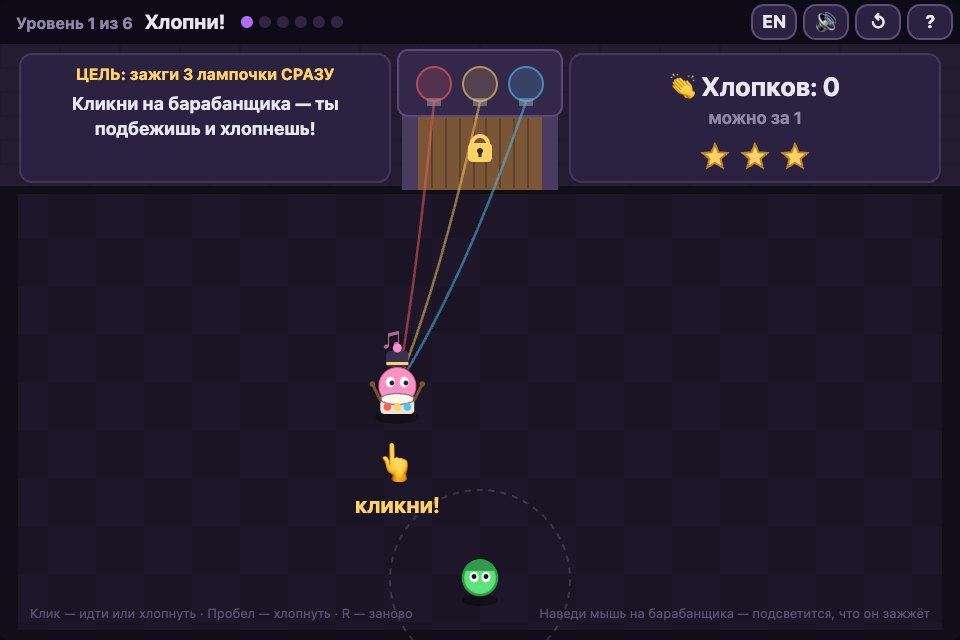
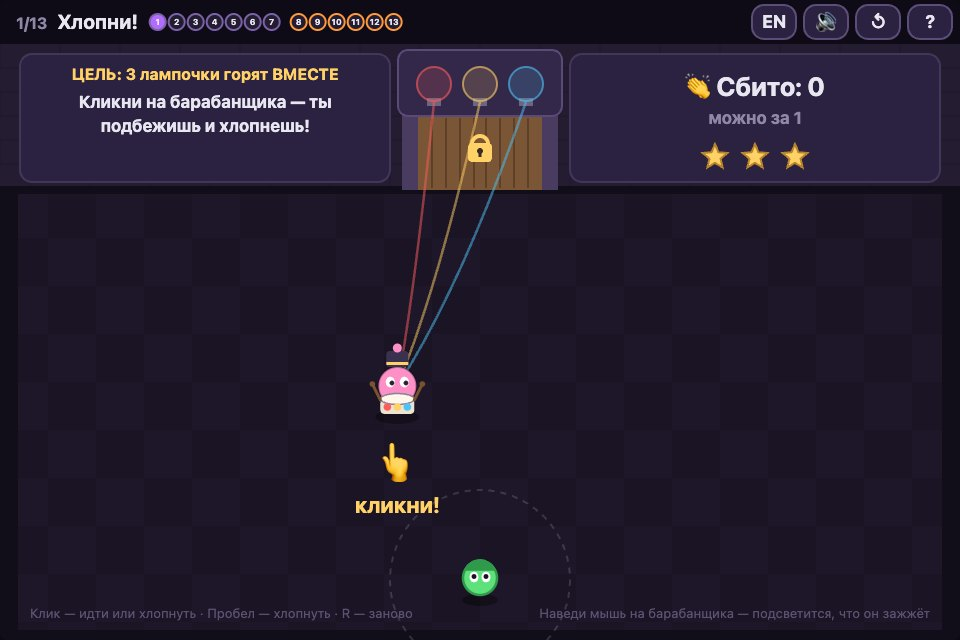
«Лейтмотив»: визреференс v2.1 (10 кадров: пауза, гаситель, ловушка, подсказка) + дашборд

Changed region(s): [[0.0625, 0.0938, 0.375, 0.2188], [0.0, 0.0, 0.4375, 0.0625], [0.6875, 0.0938, 0.875, 0.1562]]

diff --git a/mechanics/leitmotif/reference.html b/mechanics/leitmotif/reference.html
@@ -3,8 +3,8 @@
 <head>
 <meta charset="utf-8">
 <meta name="viewport" content="width=device-width, initial-scale=1">
-<title>Лейтмотив — визуальный референс v2</title>
-<meta name="description" content="Восемь кадров простой версии: хлопни по барабанщику, искра бежит по ниточкам, три лампочки сразу открывают дверь.">
+<title>Лейтмотив — визуальный референс v2.1</title>
+<meta name="description" content="Десять кадров: хлопни в паузу песенки, искра бежит по ниточкам, три лампочки вместе открывают дверь; головоломки части 2.">
 <style>
 :root{color-scheme:dark;--bg:#17131f;--card:#211a2e;--ink:#e8e6f0;--muted:#a79fba;--accent:#b26bff;--line:#352b47;
       --red:#ff5d5d;--yellow:#ffd166;--blue:#4fc3f7;--hero:#5ee07a}
@@ -41,16 +41,17 @@ a{color:var(--accent)}
 <body>
 <main>
 <header>
-  <p class="eyebrow">idea_generator · перебить × лейтмотив · визреференс v2</p>
+  <p class="eyebrow">idea_generator · перебить × лейтмотив · визреференс v2.1</p>
   <h1>Лейтмотив</h1>
-  <p class="lead">У каждого барабанщика своя песенка. Хлопни рядом с ним — он собьётся, и сбой побежит по его ниточкам
-    к лампочкам и к другим барабанщикам. Зажги все три лампочки <b>одновременно</b> — дверь откроется.</p>
-  <p class="sub">Вопрос прототипа: читают ли игроки ниточки и выбирают нужную пару хлопков — или хлопают по всем подряд?
-    Ответ видно по звёздам: решил минимумом хлопков — три звезды.</p>
+  <p class="lead">У каждого барабанщика своя песенка. Хлопни рядом с ним <b>в паузу</b> — он собьётся, и сбой побежит по его
+    ниточкам к лампочкам и к другим барабанщикам. Хлопок в удар тонет в шуме. Три лампочки должны погореть <b>вместе</b> —
+    тогда дверь откроется.</p>
+  <p class="sub">Вопрос прототипа: читают ли игроки ниточки и ритм — выбирают нужную пару, порядок и момент — или хлопают
+    по всем подряд? В части 1 звёзды за число сбитых, в части 2 (лимит) — за число попыток.</p>
   <div class="steps">
     <div class="step"><b>1</b>Кликни на барабанщика — подбежишь и хлопнешь</div>
-    <div class="step"><b>2</b>Он собьётся, искра побежит по ниточкам</div>
-    <div class="step"><b>3</b>Три лампочки горят сразу — дверь открыта</div>
+    <div class="step"><b>2</b>Хлопай в паузу песенки — он собьётся, искра побежит по ниточкам</div>
+    <div class="step"><b>3</b>Три лампочки горят вместе секунду — дверь открыта</div>
   </div>
 </header>
 
@@ -60,31 +61,37 @@ a{color:var(--accent)}
     <span>Герой сам подбежит и хлопнет. Пунктирный круг вокруг героя — докуда он дотягивается.</span></figcaption></figure>
   <figure><img src="frames/02_sparks.jpg" alt="Барабанщик сбился, по трём ниточкам бегут искры к лампочкам" loading="lazy">
     <figcaption><strong><span class="n">2</span>Хлоп! Он сбился с песенки</strong>
-    <span>Глаза-крестики и «?!». По всем его ниточкам побежали искры — каждая к лампочке своего цвета.</span></figcaption></figure>
-  <figure><img src="frames/03_open.jpg" alt="Три лампочки горят, дверь открыта, конфетти" loading="lazy">
-    <figcaption><strong><span class="n">3</span>Три горят сразу — дверь открыта</strong>
-    <span>Стрелка у героя показывает на дверь. Зайди в неё — уровень пройден.</span></figcaption></figure>
-  <figure><img src="frames/04_at_once.jpg" alt="Две лампочки горят с кольцами-таймерами, синяя ещё тёмная" loading="lazy">
-    <figcaption><strong><span class="n">4</span>Лампочка горит только 5 секунд</strong>
-    <span>Белое кольцо вокруг лампочки — сколько ей ещё гореть. Успей зажечь синюю, пока красная и жёлтая не погасли.</span></figcaption></figure>
-  <figure><img src="frames/05_domino.jpg" alt="Искра бежит по фиолетовой ниточке к барабанщику в клетке" loading="lazy">
-    <figcaption><strong><span class="n">5</span>Домино</strong>
-    <span>Фиолетовая ниточка со стрелкой ведёт к другому барабанщику. Искра собьёт и его — а он зажжёт свои лампочки.</span></figcaption></figure>
-  <figure><img src="frames/06_cage.jpg" alt="Подсказка: он в клетке, найди ниточку к нему" loading="lazy">
-    <figcaption><strong><span class="n">6</span>В клетке не достать</strong>
-    <span>Клик по клетке подсвечивает ниточки, которые к ней ведут: хлопать надо того, кто привязан снаружи.</span></figcaption></figure>
-  <figure><img src="frames/07_hover.jpg" alt="Наведение на барабанщика подсвечивает его цепочку и лампочки" loading="lazy">
-    <figcaption><strong><span class="n">7</span>Наведи — увидишь, что он зажжёт</strong>
-    <span>Подсвечивается вся цепочка: барабанщик → барабанщик → лампочка, вокруг нужных лампочек — пунктир. Выбирай пару.</span></figcaption></figure>
-  <figure><img src="frames/08_stars.jpg" alt="Экран «Ура! Уровень пройден» с тремя звёздами" loading="lazy">
-    <figcaption><strong><span class="n">8</span>Звёзды за хлопки</strong>
-    <span>Минимум хлопков — три звезды, на один больше — две, хлопал всех подряд — одна.</span></figcaption></figure>
+    <span>Глаза-крестики и «?!». По его ниточкам побежали искры — каждая к лампочке своего цвета.</span></figcaption></figure>
+  <figure><img src="frames/03_open.jpg" alt="Три лампочки горят, на замке заполняется белое кольцо" loading="lazy">
+    <figcaption><strong><span class="n">3</span>Три горят вместе — кольцо на замке</strong>
+    <span>Пока все три горят, кольцо заполняется; через секунду дверь откроется навсегда.</span></figcaption></figure>
+  <figure><img src="frames/04_drown.jpg" alt="Хлопок в момент удара: надпись ТУМ, у героя заложило уши" loading="lazy">
+    <figcaption><strong><span class="n">4</span>ТУМ! Хлопок утонул</strong>
+    <span>Полоска над барабанщиком — его песенка: оранжевый — удар, тёмный — пауза. Хлопнул в удар — не слышно, и на секунду закладывает уши.</span></figcaption></figure>
+  <figure><img src="frames/05_now.jpg" alt="Над барабанщиком зелёная клетка и надпись СЕЙЧАС" loading="lazy">
+    <figcaption><strong><span class="n">5</span>Пауза — СЕЙЧАС!</strong>
+    <span>Зелёная клетка — пауза. На втором уровне подсказка прямо пишет «СЕЙЧАС!», потом её убирают.</span></figcaption></figure>
+  <figure><img src="frames/06_domino.jpg" alt="Искра бежит по фиолетовой ниточке к барабанщику в клетке" loading="lazy">
+    <figcaption><strong><span class="n">6</span>Домино</strong>
+    <span>Фиолетовая ниточка со стрелкой ведёт к другому барабанщику — даже в клетку, куда герою не войти.</span></figcaption></figure>
+  <figure><img src="frames/07_dashed.jpg" alt="Пунктирная ниточка с крестиком к синей лампе, подсветка при наведении" loading="lazy">
+    <figcaption><strong><span class="n">7</span>Пунктир гасит</strong>
+    <span>Пунктир с крестиком гасит лампочку. Наведи мышь (или держи палец) — подсветится, что зажжётся, а что погаснет. Отсюда порядок хлопков.</span></figcaption></figure>
+  <figure><img src="frames/08_trap.jpg" alt="Ловушка: хаб зажигает все три, но его домино гасит жёлтую" loading="lazy">
+    <figcaption><strong><span class="n">8</span>Ловушка</strong>
+    <span>Этот зажигает все три… но через клетку гасит жёлтую. Крестик на лампе в подсветке это и показывает: жёлтую надо починить вторым хлопком.</span></figcaption></figure>
+  <figure><img src="frames/09_hint.jpg" alt="Экзамен с подсказкой: цифры 1, 2, 3 над барабанщиками" loading="lazy">
+    <figcaption><strong><span class="n">9</span>Часть 2: лимит и подсказка</strong>
+    <span>Сбить можно ограниченно (иконки барабанов справа). После двух неудач — подсказка: цифры показывают порядок.</span></figcaption></figure>
+  <figure><img src="frames/10_stars.jpg" alt="Экран «Ура! Уровень пройден» с тремя звёздами за первую попытку" loading="lazy">
+    <figcaption><strong><span class="n">10</span>Звёзды</strong>
+    <span>Часть 1 — за число сбитых против минимума, часть 2 — за попытки: с первой — три звезды.</span></figcaption></figure>
 </section>
 
 <h2>Что есть что</h2>
 <div class="legend">
   <div class="item"><svg width="40" height="40" viewBox="-20 -24 40 48" aria-hidden="true"><circle cx="0" cy="-4" r="15" fill="#ff8fc7"/><rect x="-9" y="-26" width="18" height="12" rx="3" fill="#3a3050"/><rect x="-13" y="7" width="26" height="12" rx="4" fill="#ece4d0"/><circle cx="-5" cy="13" r="3" fill="#ff5d5d"/><circle cx="5" cy="13" r="3" fill="#ffd166"/></svg>
-    Барабанщик. Ходит туда-сюда под свою песенку. Цветные точки на барабане — какие лампочки он зажигает сам.</div>
+    Барабанщик. Ходит туда-сюда, над головой — полоска песенки. Точки на барабане — что он зажигает сам, крестики — что гасит.</div>
   <div class="item"><svg width="40" height="40" viewBox="-20 -20 40 40" aria-hidden="true"><circle r="15" fill="#5ee07a" stroke="#2f9a4b" stroke-width="3"/><circle r="19" fill="none" stroke="#5ee07a" stroke-dasharray="4 4" opacity=".6"/></svg>
     Ты. Пунктир — докуда достаёшь хлопком.</div>
   <div class="item"><svg width="40" height="40" viewBox="0 0 40 40" aria-hidden="true"><path d="M4 34 Q20 40 36 6" stroke="#ff5d5d" stroke-width="3" fill="none"/></svg>
@@ -92,24 +99,31 @@ a{color:var(--accent)}
   <div class="item"><svg width="40" height="40" viewBox="0 0 40 40" aria-hidden="true"><path d="M4 30 Q20 36 36 10" stroke="#b26bff" stroke-width="3" fill="none"/><path d="M26 18 l8 -2 -4 8z" fill="#b26bff"/></svg>
     Фиолетовая ниточка со стрелкой — к другому барабанщику (домино).</div>
   <div class="item"><svg width="40" height="40" viewBox="-20 -20 40 40" aria-hidden="true"><circle r="11" fill="#ffd166"/><path d="M0 -16 A16 16 0 1 1 -15 5" stroke="#fff" stroke-width="3" fill="none"/></svg>
-    Лампочка горит 5 секунд, кольцо — таймер. Перед тем как погаснуть, мигает.</div>
+    Лампочка горит 5 секунд, кольцо — таймер. Перед тем как погаснуть, мигает. Пунктир с крестиком её гасит.</div>
   <div class="item"><svg width="40" height="40" viewBox="0 0 40 40" aria-hidden="true"><rect x="5" y="5" width="30" height="30" fill="none" stroke="#8a7f9e" stroke-width="3"/><circle cx="5" cy="5" r="3" fill="#b2a9c1"/><circle cx="35" cy="5" r="3" fill="#b2a9c1"/><circle cx="5" cy="35" r="3" fill="#b2a9c1"/><circle cx="35" cy="35" r="3" fill="#b2a9c1"/></svg>
     Клетка: подойти нельзя, достать только искрой по ниточке.</div>
 </div>
 
-<h2>Шесть уровней — по одной новой штуке</h2>
+<h2>Тринадцать уровней — по одной новой штуке</h2>
 <ol class="levels">
-  <li><b>Хлопни!</b> <em>— один барабанщик, три ниточки. Учит: клик → хлопок → лампочки → дверь.</em></li>
-  <li><b>Сразу двое</b> <em>— лампочки у двух барабанщиков в разных концах. Учит «одновременно».</em></li>
-  <li><b>Домино</b> <em>— главный в клетке, снаружи тот, кто к нему привязан. Учит каскад.</em></li>
-  <li><b>Выбери пару</b> <em>— четыре барабанщика, нужна пара на два хлопка. Учит читать ниточки.</em></li>
-  <li><b>Лови ритм</b> <em>— двое ходят навстречу; проще хлопнуть, когда они рядом.</em></li>
-  <li><b>Большая цепь</b> <em>— две клетки, ходячий барабанщик-развилка, ложные пути.</em></li>
+  <li><b>Хлопни!</b> <em>— клик → хлопок → лампочки → дверь (правило паузы выключено).</em></li>
+  <li><b>В паузу</b> <em>— в удар хлопок тонет; подсказка «СЕЙЧАС!».</em></li>
+  <li><b>Сразу двое</b> <em>— лампочки должны погореть вместе.</em></li>
+  <li><b>Домино</b> <em>— клетка, сбой через фиолетовую ниточку.</em></li>
+  <li><b>Выбери пару</b> <em>— читать ниточки; хаб с долгой барабанной дробью.</em></li>
+  <li><b>Лови ритм</b> <em>— двое ходят навстречу; поймать момент встречи.</em></li>
+  <li><b>Большая цепь</b> <em>— барабанщик → барабанщик → лампочка.</em></li>
+  <li><b>Только двое</b> <em>— часть 2: лимит; ключ — «пустой» барабан.</em></li>
+  <li><b>Пунктир гасит</b> <em>— порядок из-за гасителя.</em></li>
+  <li><b>Гаситель в клетке</b> <em>— гаситель спрятан в домино.</em></li>
+  <li><b>Камень-ножницы</b> <em>— три хлопка, единственный порядок.</em></li>
+  <li><b>Ловушка</b> <em>— «зажигает все три», но домино гасит жёлтую.</em></li>
+  <li><b>Экзамен</b> <em>— всё вместе, единственный порядок из трёх.</em></li>
 </ol>
 
 <p class="note">Кадры сняты из самого прототипа (<a href="../../prototypes/leitmotif/index.html">играть</a>), спека —
-  <a href="spec.md">spec.md</a>. v2 заменила v1 (циферблаты фаз, удар «не в такт», тревога, подпевание), которую было
-  трудно понять.</p>
+  <a href="spec.md">spec.md</a>. v2 заменила непонятную v1; v2.1 вернула ядро «перебить не в такт» одним правилом — хлопок в удар
+  тонет — и добавила головоломки части 2.</p>
 </main>
 </body>
 </html>

diff --git a/index.html b/index.html
@@ -31,6 +31,18 @@
   <p class="stats">8 прошли фильтр · 3 играбельны · сэмплер: word2vec «глагол × существительное» на достаточном расстоянии</p>
   
   <article class="card">
+    <header><h2>Лейтмотив</h2><span class="chip">прошёл фильтр</span></header>
+    <div class="pair">перебить × лейтмотив<span class="sim"> · sim −0.119</span></div>
+    <p class="rule">У каждого барабанщика своя песенка; хлопни рядом с ним в паузу — он собьётся, и сбой побежит по его ниточкам к лампочкам и к другим барабанщикам (хлопок в момент удара тонет в шуме); зажги все три лампочки так, чтобы они погорели вместе секунду, — дверь откроется.</p>
+    <p class="q">Читают ли игроки ниточки и ритм — выбирают нужную пару, порядок и момент — или хлопают по всем подряд? Метрики в консоли на каждую попытку: сбито, хлопки, утонувшие хлопки, цепочка, попытки, подсказка. Провал: в части 2 решают перебором (много попыток, подсказка) и в части 1 сбивают сильно больше минимума. Успех: большинство уровней 8–13 решено за 1–3 попытки разными цепочками, утонувших хлопков мало после уровня 3.</p>
+    
+    <nav>
+      <a class="play" href="prototypes/leitmotif/index.html">▶ ИГРАТЬ</a>
+      <a href="mechanics/leitmotif/reference.html">визреференс</a>
+      <a href="mechanics/leitmotif/spec.md">спека</a>
+    </nav>
+  </article>
+  <article class="card">
     <header><h2>Ложь-замок</h2><span class="chip">прошёл фильтр</span></header>
     <div class="pair">соврать × закрытие<span class="sim"> · sim −0.098</span></div>
     <p class="rule">Сказанная NPC ложь открывает его дверь, но запирает другую, названную заранее иконкой-замком; признание этому NPC растворяет все замки от твоих лжей ему — но его дверь запирается навсегда; правда — отказ от сделки: ни замка, ни помощи.</p>
@@ -78,18 +90,6 @@
     <div class="note">прошёл фильтр, прототип ещё не собран</div>
     <nav>
       <a href="mechanics/rumors/spec.md">спека</a>
-    </nav>
-  </article>
-  <article class="card">
-    <header><h2>Лейтмотив</h2><span class="chip">прошёл фильтр</span></header>
-    <div class="pair">перебить × лейтмотив<span class="sim"> · sim −0.119</span></div>
-    <p class="rule">Барабанщики ходят под свою песенку; хлопни рядом с барабанщиком — он собьётся, и сбой побежит по его ниточкам к лампочкам и к другим барабанщикам; зажги все три лампочки на двери одновременно — дверь откроется.</p>
-    <p class="q">Читают ли игроки ниточки и выбирают нужную пару и порядок хлопков — или хлопают по всем подряд? Критерий провала: побеждают спамом (хлопков заметно больше минимума на уровнях 4–6). Критерий успеха: на уровнях 4–6 большинство партий решено за минимум или минимум+1, причём разными цепочками на разных уровнях.</p>
-    
-    <nav>
-      <a class="play" href="prototypes/leitmotif/index.html">▶ ИГРАТЬ</a>
-      <a href="mechanics/leitmotif/reference.html">визреференс</a>
-      <a href="mechanics/leitmotif/spec.md">спека</a>
     </nav>
   </article>
   <article class="card">
